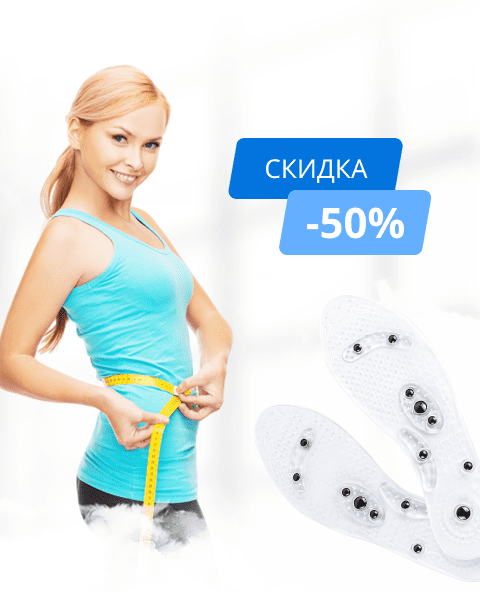
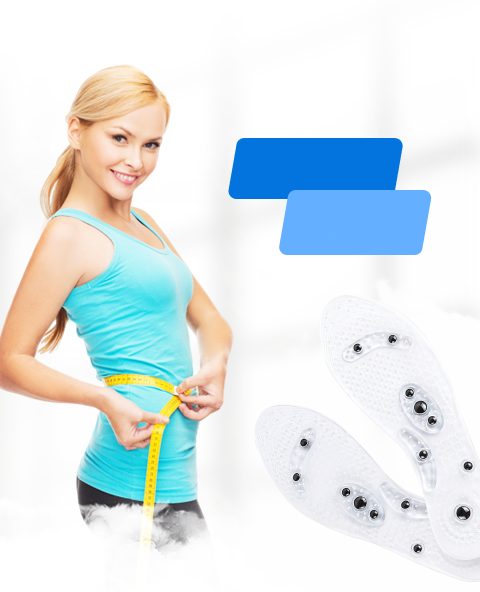
v

diff --git a/fitness_Insoles2/gr/1/styles/css/main.css b/fitness_Insoles2/gr/1/styles/css/main.css
@@ -1,2 +1,2 @@
-html{font-size:20.833333vw;overflow-x:hidden}@media (min-width: 481px){html{font-size:100px}}body{font-size:.20rem;max-width:480px;margin:auto;position:relative;line-height:1.4;font-weight:300;font-family:'Noto Sans', sans-serif;color:#063060;overflow-x:hidden;-webkit-box-shadow:0 0 2px 2px rgba(0,0,0,0.25);box-shadow:0 0 2px 2px rgba(0,0,0,0.25)}body input,body textarea{outline:none}body input:focus:required:invalid,body textarea:focus:required:invalid{border-color:red}body input:required:valid,body textarea:required:valid{border-color:green}.play{font-family:'Playfair Display', sans-serif}section{padding:.3rem 0}.img-wrap{display:-webkit-box;display:-ms-flexbox;display:flex;-webkit-box-align:center;-ms-flex-align:center;align-items:center;-webkit-box-pack:center;-ms-flex-pack:center;justify-content:center}.img-wrap img{width:100%}.img-wrap.pad{padding:.2rem 0}.img-wrap.mar{margin:.2rem 0}.content{padding:0 .13rem}.content p{line-height:1.5}.content p:last-child{margin-bottom:0}.bg-light{background-color:#c7ebf5}.no-pad{margin-left:-0.13rem;margin-right:-0.13rem;display:block;width:4.8rem}.heading{padding:.2rem 0}h2{text-align:left;font-size:0.36rem;font-weight:bold;margin:0 0 0.2rem 0;bottom:.5rem;line-height:1.3;text-transform:uppercase}h2 b{color:#2EE3F7}h2.right{text-align:right}h2.big{font-size:0.4rem}h2.black{color:#000}h2.vait{color:vait}h2 span{color:#0077C0}h2.upp{text-transform:uppercase}h2 b.prod{text-transform:uppercase;font-weight:bold}h2 .offer{text-transform:uppercase}.sub-title{font-style:italic;font-size:0.2rem;color:#323842}.t-center{text-align:center}.t-white{color:#fff}span.accent{color:#0077C0}h2+p{margin-top:0}.btn{display:-webkit-box;display:-ms-flexbox;display:flex;-webkit-box-orient:horizontal;-webkit-box-direction:normal;-ms-flex-direction:row;flex-direction:row;-webkit-box-pack:center;-ms-flex-pack:center;justify-content:center;-webkit-box-align:center;-ms-flex-align:center;align-items:center;-ms-flex-wrap:nowrap;flex-wrap:nowrap;border-radius:0px 0px 5px 5px;background-image:url(../../img/button.png);background-color:transparent;background-size:cover;color:#fff;text-transform:uppercase;font-weight:bold;text-decoration:none;font-size:0.25rem;border:none;height:1.32rem;width:4.4rem;margin:0 auto;position:relative;margin-top:0.1rem}.btn span{top:-0.09rem;position:relative}.border__top{width:4.8rem;position:absolute;top:-0.28rem;left:0;right:0}.border__bot{width:4.8rem;position:absolute;bottom:-0.28rem;left:0;right:0}@-webkit-keyframes btn{0%{-webkit-transform:scale(1);transform:scale(1)}50%{-webkit-transform:scale(1.06);transform:scale(1.06)}100%{-webkit-transform:scale(1);transform:scale(1)}}@keyframes btn{0%{-webkit-transform:scale(1);transform:scale(1)}50%{-webkit-transform:scale(1.06);transform:scale(1.06)}100%{-webkit-transform:scale(1);transform:scale(1)}}.pulse__btn{position:fixed;right:0.2rem;display:inline-block;bottom:0.2rem;z-index:12;-webkit-box-shadow:0 0 0 rgba(11,138,44,0.4);box-shadow:0 0 0 rgba(11,138,44,0.4);width:0.7rem;height:0.7rem;border-radius:50%;-webkit-animation:pulse 2s infinite;animation:pulse 2s infinite;-webkit-transition:all .9s ease;transition:all .9s ease}.pulse__btn.show{right:-100%}.pulse__btn img{width:100%}img{width:100%}input[type="number"]::-webkit-outer-spin-button,input[type="number"]::-webkit-inner-spin-button{-webkit-appearance:none;margin:0}input[type="number"]{-moz-appearance:textfield}input[type="number"]:hover,input[type="number"]:focus{-moz-appearance:number-input}input[type=number]::-webkit-inner-spin-button,input[type=number]::-webkit-outer-spin-button{-webkit-appearance:none;margin:0}form{-webkit-box-sizing:border-box;box-sizing:border-box;margin:auto;display:-webkit-box;display:-ms-flexbox;display:flex;-webkit-box-align:center;-ms-flex-align:center;align-items:center;-webkit-box-orient:vertical;-webkit-box-direction:normal;-ms-flex-direction:column;flex-direction:column;padding-bottom:0.4rem;margin-top:0.2rem}form .btn{margin-top:-0.2rem}input,textarea{height:.75rem;width:3.9rem;padding-left:0.3rem;-webkit-box-sizing:border-box;box-sizing:border-box;border-radius:4px;font-size:0.16rem;color:#000;border:none;margin-bottom:0.4rem;background:#CEEDFF;-webkit-box-shadow:inset 0px 4px 4px rgba(162,210,255,0.5);box-shadow:inset 0px 4px 4px rgba(162,210,255,0.5);border-radius:9px}input::-webkit-input-placeholder{font-size:0.22rem;font-family:inherit}input:-ms-input-placeholder{font-size:0.22rem;font-family:inherit}input::-ms-input-placeholder{font-size:0.22rem;font-family:inherit}input::placeholder{font-size:0.22rem;font-family:inherit}.policy_wrap{display:-webkit-box;display:-ms-flexbox;display:flex;-webkit-box-align:center;-ms-flex-align:center;align-items:center;-webkit-box-pack:center;-ms-flex-pack:center;justify-content:center;-webkit-box-orient:vertical;-webkit-box-direction:normal;-ms-flex-direction:column;flex-direction:column;min-height:1rem;background-color:#3b3c3d;font-size:0.16rem;color:#fff;text-align:center}.policy_wrap a{color:#7c7e86}@-webkit-keyframes pulse{0%{-webkit-box-shadow:0 0 0 rgba(11,138,44,0.4);box-shadow:0 0 0 rgba(11,138,44,0.4);transform:scale(1);-webkit-transform:scale(1);-moz-transform:scale(1);-ms-transform:scale(1);-o-transform:scale(1)}70%{-webkit-box-shadow:0 0 0 30px rgba(11,138,44,0);box-shadow:0 0 0 30px rgba(11,138,44,0);transform:scale(0.95);-webkit-transform:scale(0.95);-moz-transform:scale(0.95);-ms-transform:scale(0.95);-o-transform:scale(0.95)}100%{-webkit-box-shadow:0 0 0 0 rgba(11,138,44,0);box-shadow:0 0 0 0 rgba(11,138,44,0);-webkit-transform:scale(1);transform:scale(1)}}@keyframes pulse{0%{-webkit-box-shadow:0 0 0 rgba(11,138,44,0.4);box-shadow:0 0 0 rgba(11,138,44,0.4);transform:scale(1);-webkit-transform:scale(1);-moz-transform:scale(1);-ms-transform:scale(1);-o-transform:scale(1)}70%{-webkit-box-shadow:0 0 0 30px rgba(11,138,44,0);box-shadow:0 0 0 30px rgba(11,138,44,0);transform:scale(0.95);-webkit-transform:scale(0.95);-moz-transform:scale(0.95);-ms-transform:scale(0.95);-o-transform:scale(0.95)}100%{-webkit-box-shadow:0 0 0 0 rgba(11,138,44,0);box-shadow:0 0 0 0 rgba(11,138,44,0);-webkit-transform:scale(1);transform:scale(1)}}@-webkit-keyframes arrows{0%{-webkit-transform:translateX(0) translateY(-50%);transform:translateX(0) translateY(-50%)}50%{-webkit-transform:translateX(0.1rem) translateY(-50%);transform:translateX(0.1rem) translateY(-50%)}100%{-webkit-transform:translateX(0) translateY(-50%);transform:translateX(0) translateY(-50%)}}@keyframes arrows{0%{-webkit-transform:translateX(0) translateY(-50%);transform:translateX(0) translateY(-50%)}50%{-webkit-transform:translateX(0.1rem) translateY(-50%);transform:translateX(0.1rem) translateY(-50%)}100%{-webkit-transform:translateX(0) translateY(-50%);transform:translateX(0) translateY(-50%)}}@-webkit-keyframes arrows-reverse{0%{-webkit-transform:translateX(0) translateY(-50%);transform:translateX(0) translateY(-50%)}50%{-webkit-transform:translateX(-0.1rem) translateY(-50%);transform:translateX(-0.1rem) translateY(-50%)}100%{-webkit-transform:translateX(0) translateY(-50%);transform:translateX(0) translateY(-50%)}}@keyframes arrows-reverse{0%{-webkit-transform:translateX(0) translateY(-50%);transform:translateX(0) translateY(-50%)}50%{-webkit-transform:translateX(-0.1rem) translateY(-50%);transform:translateX(-0.1rem) translateY(-50%)}100%{-webkit-transform:translateX(0) translateY(-50%);transform:translateX(0) translateY(-50%)}}.reviews.owl-carousel .owl-item .ava{width:1.1rem;display:block;margin-right:0.4rem}.reviews__item{background:#ffffff;border-radius:10px;padding:0.39rem;-webkit-box-sizing:border-box;box-sizing:border-box}.reviews__header{display:-webkit-box;display:-ms-flexbox;display:flex;-webkit-box-orient:horizontal;-webkit-box-direction:normal;-ms-flex-direction:row;flex-direction:row;-webkit-box-pack:start;-ms-flex-pack:start;justify-content:flex-start;-webkit-box-align:stretch;-ms-flex-align:stretch;align-items:stretch;-ms-flex-wrap:nowrap;flex-wrap:nowrap}.reviews__header p{display:-webkit-box;display:-ms-flexbox;display:flex;-webkit-box-orient:vertical;-webkit-box-direction:normal;-ms-flex-direction:column;flex-direction:column;-webkit-box-pack:start;-ms-flex-pack:start;justify-content:flex-start;-webkit-box-align:stretch;-ms-flex-align:stretch;align-items:stretch;-ms-flex-wrap:nowrap;flex-wrap:nowrap}.reviews__name{font-weight:500}.reviews__name b{font-size:0.26rem}.owl-carousel .owl-dots{padding:0.2rem 0;display:-webkit-box;display:-ms-flexbox;display:flex;-webkit-box-pack:center;-ms-flex-pack:center;justify-content:center;-webkit-box-align:center;-ms-flex-align:center;align-items:center}.owl-carousel .owl-dots button{width:0.2rem;height:0.2rem;border-radius:50%;outline:none;background-color:#CEEDFF;-webkit-box-shadow:inset 0px 4px 4px rgba(162,210,255,0.5);box-shadow:inset 0px 4px 4px rgba(162,210,255,0.5);margin:0 3px}.owl-carousel .owl-dots button.active{background:-webkit-gradient(linear, left top, left bottom, from(#20aefa), color-stop(94.79%, #0078ff), color-stop(94.8%, #0078ff));background:linear-gradient(180deg, #20aefa 0%, #0078ff 94.79%, #0078ff 94.8%);-webkit-box-shadow:inset 0px 4px 4px rgba(162,210,255,0.5);box-shadow:inset 0px 4px 4px rgba(162,210,255,0.5)}.timer{padding:0.2rem 0;background:#f0f9ff;-webkit-box-shadow:inset 0 0.05rem 0.1rem #ddf1ff;box-shadow:inset 0 0.05rem 0.1rem #ddf1ff;border-radius:0.15rem;width:4.04rem;margin:0 auto;margin-bottom:0.2rem}.timer__wrapper,.timer__desc{display:-webkit-box;display:-ms-flexbox;display:flex;-webkit-box-orient:horizontal;-webkit-box-direction:normal;-ms-flex-direction:row;flex-direction:row;-ms-flex-pack:distribute;justify-content:space-around;-webkit-box-align:center;-ms-flex-align:center;align-items:center;-ms-flex-wrap:nowrap;flex-wrap:nowrap;font-size:0.43rem;max-width:3rem;font-weight:normal;margin:auto}.timer__wrapper>div,.timer__desc>div{width:1rem;text-align:center}.timer__title{text-align:center;margin:0 0 0.05rem;font-weight:normal}.timer__desc{font-size:0.16rem;font-weight:300;text-transform:uppercase}.timer__desc span{display:inline-block;width:1rem;text-align:center}.intro{background:#fff;padding-bottom:0.1rem}.intro__main{position:relative;background-image:url(../../img/intro.jpg);background-size:cover;height:8.26rem;padding-left:0.2rem;padding-top:0.65rem;-webkit-box-sizing:border-box;box-sizing:border-box}.intro__prod{width:2.5rem;height:2.5rem;background-image:url(../../img/intro_2.png);background-size:cover;-webkit-box-sizing:border-box;box-sizing:border-box;padding:0 .4rem;text-align:center;text-transform:uppercase;padding-bottom:0.5rem;display:-webkit-box;display:-ms-flexbox;display:flex;-webkit-box-orient:horizontal;-webkit-box-direction:normal;-ms-flex-direction:row;flex-direction:row;-webkit-box-pack:start;-ms-flex-pack:start;justify-content:flex-start;-webkit-box-align:end;-ms-flex-align:end;align-items:flex-end;-ms-flex-wrap:nowrap;flex-wrap:nowrap}.intro__trigger .sale{background-image:url(../../img/intro_1.svg);padding-left:0.3rem;-webkit-box-sizing:border-box;box-sizing:border-box;background-size:cover;width:2.48rem;height:0.47rem;background-repeat:no-repeat;color:#fff;display:-webkit-box;display:-ms-flexbox;display:flex;-webkit-box-orient:vertical;-webkit-box-direction:normal;-ms-flex-direction:column;flex-direction:column;-webkit-box-pack:center;-ms-flex-pack:center;justify-content:center;-webkit-box-align:stretch;-ms-flex-align:stretch;align-items:stretch;-ms-flex-wrap:nowrap;flex-wrap:nowrap;margin-bottom:0.1rem;font-size:0.16rem}.intro__trigger h2{font-size:0.46rem}.intro__trigger p{font-size:0.3rem;width:3.15rem}.intro__trigger img{width:2.54rem;margin-left:-0.2rem}.intro .price{background-size:cover;display:-webkit-box;display:-ms-flexbox;display:flex;-webkit-box-orient:horizontal;-webkit-box-direction:normal;-ms-flex-direction:row;flex-direction:row;-ms-flex-pack:distribute;justify-content:space-around;-webkit-box-align:center;-ms-flex-align:center;align-items:center;-ms-flex-wrap:nowrap;flex-wrap:nowrap;position:relative;margin-top:-0.1rem;text-align:center;line-height:0.32rem}.intro .price>div{width:50%}.intro .price>div:first-child{border-right:1px solid #bababa}.intro .price s{font-size:0.5rem}.intro .price b{font-size:0.5rem;color:#2ee3f7}.intro .price p{margin:0 0 0.13rem 0;font-size:0.2rem;line-height:0.27rem;color:#9d9d9d}.intro__box{display:-webkit-box;display:-ms-flexbox;display:flex;-webkit-box-orient:horizontal;-webkit-box-direction:normal;-ms-flex-direction:row;flex-direction:row;-webkit-box-pack:center;-ms-flex-pack:center;justify-content:center;-webkit-box-align:center;-ms-flex-align:center;align-items:center;-ms-flex-wrap:nowrap;flex-wrap:nowrap;font-weight:normal}.intro__box span{color:#9D9D9D}.intro__box p{margin:0 0 0 0.2rem;font-size:0.46rem;color:#2ee3f7}.intro__footer{display:-webkit-box;display:-ms-flexbox;display:flex;-webkit-box-orient:vertical;-webkit-box-direction:normal;-ms-flex-direction:column;flex-direction:column;-webkit-box-pack:start;-ms-flex-pack:start;justify-content:flex-start;-webkit-box-align:stretch;-ms-flex-align:stretch;align-items:stretch;-ms-flex-wrap:nowrap;flex-wrap:nowrap;text-align:left;margin-top:0.3rem;padding-bottom:0.2rem}.intro__item{display:-webkit-box;display:-ms-flexbox;display:flex;-webkit-box-orient:horizontal;-webkit-box-direction:normal;-ms-flex-direction:row;flex-direction:row;-webkit-box-pack:start;-ms-flex-pack:start;justify-content:flex-start;-webkit-box-align:stretch;-ms-flex-align:stretch;align-items:stretch;-ms-flex-wrap:nowrap;flex-wrap:nowrap;margin:0 0.15rem 0.3rem;-webkit-box-sizing:border-box;box-sizing:border-box;font-size:0.22rem}.intro__item img{width:1.1rem;-ms-flex-negative:0;flex-shrink:0;margin-right:0.36rem}.intro__item p{-ms-flex-item-align:center;-ms-grid-row-align:center;align-self:center;margin:0}.sect1{background-color:#ebf7ff;padding:0}.sect1__footer{position:relative;display:-webkit-box;display:-ms-flexbox;display:flex;-webkit-box-orient:vertical;-webkit-box-direction:normal;-ms-flex-direction:column;flex-direction:column;-webkit-box-pack:center;-ms-flex-pack:center;justify-content:center;-webkit-box-align:center;-ms-flex-align:center;align-items:center;-ms-flex-wrap:nowrap;flex-wrap:nowrap}.sect1__footer p{position:absolute;bottom:0.6rem;width:3.7rem}.sect1__main{padding-top:0.3rem}.sect1__header{background-color:#fff;width:0.54rem;height:0.54rem;padding:0.32rem;margin:0 auto;border-radius:100%;-webkit-transform:translateY(-50%);transform:translateY(-50%)}.sect1__header img{width:0.54rem}.sect2{position:relative;padding-top:2.2rem;padding-bottom:0}.sect2:before{content:"";background-image:url(../../img/sect1_after.jpg);background-size:cover;position:absolute;width:4.8rem;height:2.09rem;top:0}.sect2__grid{display:-ms-grid;display:grid;-ms-grid-columns:(1fr)[2];grid-template-columns:repeat(2, 1fr);text-align:center;grid-gap:0.5rem;padding:0 0.3rem;padding-top:0.35rem;font-size:0.22rem}.sect2__grid img{width:1.4rem}.sect2__img{margin-top:-0.3rem;margin-bottom:-0.7rem}.sect2__after{margin-top:-0.8rem}.sect3{background:#ebf7ff;border-radius:0px 0px 0px 137px}.sect3__main{padding-top:0.4rem}.sect3__item{position:relative;display:-webkit-box;display:-ms-flexbox;display:flex;-webkit-box-orient:vertical;-webkit-box-direction:normal;-ms-flex-direction:column;flex-direction:column;-webkit-box-pack:center;-ms-flex-pack:center;justify-content:center;-webkit-box-align:center;-ms-flex-align:center;align-items:center;-ms-flex-wrap:nowrap;flex-wrap:nowrap}.sect3__item p{position:absolute;bottom:0.7rem;width:3.62rem}.sect4{padding-top:0.64rem}.sect4 .text{font-size:0.22rem;padding-top:0.22rem}.sect4 h4{font-size:0.3rem;font-weight:normal}.sect4__item{position:relative;display:-webkit-box;display:-ms-flexbox;display:flex;-webkit-box-orient:vertical;-webkit-box-direction:normal;-ms-flex-direction:column;flex-direction:column;-webkit-box-pack:center;-ms-flex-pack:center;justify-content:center;-webkit-box-align:center;-ms-flex-align:center;align-items:center;-ms-flex-wrap:nowrap;flex-wrap:nowrap}.sect4__item p{color:#fff;position:absolute;bottom:0.7rem;width:3.62rem}.sect5{background-image:url(../../img/sect5.jpg);-webkit-box-sizing:border-box;box-sizing:border-box;background-size:cover;margin-top:-2.25rem;padding-top:3.5rem;background-repeat:no-repeat;padding-bottom:0}.sect5 h2{font-size:0.4rem;margin-bottom:0.65rem}.sect5__footer{margin-top:-0.9rem}.sect6__main{padding:0.4rem 0 0 0.25rem;-webkit-box-sizing:border-box;box-sizing:border-box}.sect6__item{display:-webkit-box;display:-ms-flexbox;display:flex;-webkit-box-orient:horizontal;-webkit-box-direction:normal;-ms-flex-direction:row;flex-direction:row;-webkit-box-pack:start;-ms-flex-pack:start;justify-content:flex-start;-webkit-box-align:center;-ms-flex-align:center;align-items:center;-ms-flex-wrap:nowrap;flex-wrap:nowrap;margin-bottom:0.39rem}.sect6__item img{width:27%;margin-right:0.3rem}.sect6__item p{-ms-flex-item-align:center;-ms-grid-row-align:center;align-self:center;width:2.73rem}.sect6 h2{text-align:center}.list{list-style:none;padding:0;margin:0;padding:0.2rem 0}.list__item{position:relative;padding-left:0.35rem}.list__item:not(:last-child){margin-bottom:0.15rem}.list__item:before{content:"";background-image:url(../../img/tick.svg);background-size:contain;display:block;width:0.24rem;height:0.24rem;position:absolute;left:0;top:0}
+html{font-size:20.833333vw;overflow-x:hidden}@media (min-width: 481px){html{font-size:100px}}body{font-size:.20rem;max-width:480px;margin:auto;position:relative;line-height:1.4;font-weight:300;font-family:'Noto Sans', sans-serif;color:#063060;overflow-x:hidden;-webkit-box-shadow:0 0 2px 2px rgba(0,0,0,0.25);box-shadow:0 0 2px 2px rgba(0,0,0,0.25)}body input,body textarea{outline:none}body input:focus:required:invalid,body textarea:focus:required:invalid{border-color:red}body input:required:valid,body textarea:required:valid{border-color:green}.play{font-family:'Playfair Display', sans-serif}section{padding:.3rem 0}.img-wrap{display:-webkit-box;display:-ms-flexbox;display:flex;-webkit-box-align:center;-ms-flex-align:center;align-items:center;-webkit-box-pack:center;-ms-flex-pack:center;justify-content:center}.img-wrap img{width:100%}.img-wrap.pad{padding:.2rem 0}.img-wrap.mar{margin:.2rem 0}.content{padding:0 .13rem}.content p{line-height:1.5}.content p:last-child{margin-bottom:0}.bg-light{background-color:#c7ebf5}.no-pad{margin-left:-0.13rem;margin-right:-0.13rem;display:block;width:4.8rem}.heading{padding:.2rem 0}h2{text-align:left;font-size:0.36rem;font-weight:bold;margin:0 0 0.2rem 0;bottom:.5rem;line-height:1.3;text-transform:uppercase}h2 b{color:#2EE3F7}h2.right{text-align:right}h2.big{font-size:0.4rem}h2.black{color:#000}h2.vait{color:vait}h2 span{color:#0077C0}h2.upp{text-transform:uppercase}h2 b.prod{text-transform:uppercase;font-weight:bold}h2 .offer{text-transform:uppercase}.sub-title{font-style:italic;font-size:0.2rem;color:#323842}.t-center{text-align:center}.t-white{color:#fff}span.accent{color:#0077C0}h2+p{margin-top:0}.btn{display:-webkit-box;display:-ms-flexbox;display:flex;-webkit-box-orient:horizontal;-webkit-box-direction:normal;-ms-flex-direction:row;flex-direction:row;-webkit-box-pack:center;-ms-flex-pack:center;justify-content:center;-webkit-box-align:center;-ms-flex-align:center;align-items:center;-ms-flex-wrap:nowrap;flex-wrap:nowrap;border-radius:0px 0px 5px 5px;background-image:url(../../img/button.png);background-color:transparent;background-size:cover;color:#fff;text-transform:uppercase;font-weight:bold;text-decoration:none;font-size:0.25rem;border:none;height:1.32rem;width:4.4rem;margin:0 auto;position:relative;margin-top:0.1rem}.btn span{top:-0.09rem;position:relative}.border__top{width:4.8rem;position:absolute;top:-0.28rem;left:0;right:0}.border__bot{width:4.8rem;position:absolute;bottom:-0.28rem;left:0;right:0}@-webkit-keyframes btn{0%{-webkit-transform:scale(1);transform:scale(1)}50%{-webkit-transform:scale(1.06);transform:scale(1.06)}100%{-webkit-transform:scale(1);transform:scale(1)}}@keyframes btn{0%{-webkit-transform:scale(1);transform:scale(1)}50%{-webkit-transform:scale(1.06);transform:scale(1.06)}100%{-webkit-transform:scale(1);transform:scale(1)}}.pulse__btn{position:fixed;right:0.2rem;display:inline-block;bottom:0.2rem;z-index:12;-webkit-box-shadow:0 0 0 rgba(11,138,44,0.4);box-shadow:0 0 0 rgba(11,138,44,0.4);width:0.7rem;height:0.7rem;border-radius:50%;-webkit-animation:pulse 2s infinite;animation:pulse 2s infinite;-webkit-transition:all .9s ease;transition:all .9s ease}.pulse__btn.show{right:-100%}.pulse__btn img{width:100%}img{width:100%}input[type="number"]::-webkit-outer-spin-button,input[type="number"]::-webkit-inner-spin-button{-webkit-appearance:none;margin:0}input[type="number"]{-moz-appearance:textfield}input[type="number"]:hover,input[type="number"]:focus{-moz-appearance:number-input}input[type=number]::-webkit-inner-spin-button,input[type=number]::-webkit-outer-spin-button{-webkit-appearance:none;margin:0}form{-webkit-box-sizing:border-box;box-sizing:border-box;margin:auto;display:-webkit-box;display:-ms-flexbox;display:flex;-webkit-box-align:center;-ms-flex-align:center;align-items:center;-webkit-box-orient:vertical;-webkit-box-direction:normal;-ms-flex-direction:column;flex-direction:column;padding-bottom:0.4rem;margin-top:0.2rem}form .btn{margin-top:-0.2rem}input,textarea{height:.75rem;width:3.9rem;padding-left:0.3rem;-webkit-box-sizing:border-box;box-sizing:border-box;border-radius:4px;font-size:0.16rem;color:#000;border:none;margin-bottom:0.4rem;background:#CEEDFF;-webkit-box-shadow:inset 0px 4px 4px rgba(162,210,255,0.5);box-shadow:inset 0px 4px 4px rgba(162,210,255,0.5);border-radius:9px}input::-webkit-input-placeholder{font-size:0.22rem;font-family:inherit}input:-ms-input-placeholder{font-size:0.22rem;font-family:inherit}input::-ms-input-placeholder{font-size:0.22rem;font-family:inherit}input::placeholder{font-size:0.22rem;font-family:inherit}.policy_wrap{display:-webkit-box;display:-ms-flexbox;display:flex;-webkit-box-align:center;-ms-flex-align:center;align-items:center;-webkit-box-pack:center;-ms-flex-pack:center;justify-content:center;-webkit-box-orient:vertical;-webkit-box-direction:normal;-ms-flex-direction:column;flex-direction:column;min-height:1rem;background-color:#3b3c3d;font-size:0.16rem;color:#fff;text-align:center}.policy_wrap a{color:#7c7e86}@-webkit-keyframes pulse{0%{-webkit-box-shadow:0 0 0 rgba(11,138,44,0.4);box-shadow:0 0 0 rgba(11,138,44,0.4);transform:scale(1);-webkit-transform:scale(1);-moz-transform:scale(1);-ms-transform:scale(1);-o-transform:scale(1)}70%{-webkit-box-shadow:0 0 0 30px rgba(11,138,44,0);box-shadow:0 0 0 30px rgba(11,138,44,0);transform:scale(0.95);-webkit-transform:scale(0.95);-moz-transform:scale(0.95);-ms-transform:scale(0.95);-o-transform:scale(0.95)}100%{-webkit-box-shadow:0 0 0 0 rgba(11,138,44,0);box-shadow:0 0 0 0 rgba(11,138,44,0);-webkit-transform:scale(1);transform:scale(1)}}@keyframes pulse{0%{-webkit-box-shadow:0 0 0 rgba(11,138,44,0.4);box-shadow:0 0 0 rgba(11,138,44,0.4);transform:scale(1);-webkit-transform:scale(1);-moz-transform:scale(1);-ms-transform:scale(1);-o-transform:scale(1)}70%{-webkit-box-shadow:0 0 0 30px rgba(11,138,44,0);box-shadow:0 0 0 30px rgba(11,138,44,0);transform:scale(0.95);-webkit-transform:scale(0.95);-moz-transform:scale(0.95);-ms-transform:scale(0.95);-o-transform:scale(0.95)}100%{-webkit-box-shadow:0 0 0 0 rgba(11,138,44,0);box-shadow:0 0 0 0 rgba(11,138,44,0);-webkit-transform:scale(1);transform:scale(1)}}@-webkit-keyframes arrows{0%{-webkit-transform:translateX(0) translateY(-50%);transform:translateX(0) translateY(-50%)}50%{-webkit-transform:translateX(0.1rem) translateY(-50%);transform:translateX(0.1rem) translateY(-50%)}100%{-webkit-transform:translateX(0) translateY(-50%);transform:translateX(0) translateY(-50%)}}@keyframes arrows{0%{-webkit-transform:translateX(0) translateY(-50%);transform:translateX(0) translateY(-50%)}50%{-webkit-transform:translateX(0.1rem) translateY(-50%);transform:translateX(0.1rem) translateY(-50%)}100%{-webkit-transform:translateX(0) translateY(-50%);transform:translateX(0) translateY(-50%)}}@-webkit-keyframes arrows-reverse{0%{-webkit-transform:translateX(0) translateY(-50%);transform:translateX(0) translateY(-50%)}50%{-webkit-transform:translateX(-0.1rem) translateY(-50%);transform:translateX(-0.1rem) translateY(-50%)}100%{-webkit-transform:translateX(0) translateY(-50%);transform:translateX(0) translateY(-50%)}}@keyframes arrows-reverse{0%{-webkit-transform:translateX(0) translateY(-50%);transform:translateX(0) translateY(-50%)}50%{-webkit-transform:translateX(-0.1rem) translateY(-50%);transform:translateX(-0.1rem) translateY(-50%)}100%{-webkit-transform:translateX(0) translateY(-50%);transform:translateX(0) translateY(-50%)}}.reviews.owl-carousel .owl-item .ava{width:1.1rem;display:block;margin-right:0.4rem}.reviews__item{background:#ffffff;border-radius:10px;padding:0.39rem;-webkit-box-sizing:border-box;box-sizing:border-box}.reviews__header{display:-webkit-box;display:-ms-flexbox;display:flex;-webkit-box-orient:horizontal;-webkit-box-direction:normal;-ms-flex-direction:row;flex-direction:row;-webkit-box-pack:start;-ms-flex-pack:start;justify-content:flex-start;-webkit-box-align:stretch;-ms-flex-align:stretch;align-items:stretch;-ms-flex-wrap:nowrap;flex-wrap:nowrap}.reviews__header p{display:-webkit-box;display:-ms-flexbox;display:flex;-webkit-box-orient:vertical;-webkit-box-direction:normal;-ms-flex-direction:column;flex-direction:column;-webkit-box-pack:start;-ms-flex-pack:start;justify-content:flex-start;-webkit-box-align:stretch;-ms-flex-align:stretch;align-items:stretch;-ms-flex-wrap:nowrap;flex-wrap:nowrap}.reviews__name{font-weight:500}.reviews__name b{font-size:0.26rem}.owl-carousel .owl-dots{padding:0.2rem 0;display:-webkit-box;display:-ms-flexbox;display:flex;-webkit-box-pack:center;-ms-flex-pack:center;justify-content:center;-webkit-box-align:center;-ms-flex-align:center;align-items:center}.owl-carousel .owl-dots button{width:0.2rem;height:0.2rem;border-radius:50%;outline:none;background-color:#CEEDFF;-webkit-box-shadow:inset 0px 4px 4px rgba(162,210,255,0.5);box-shadow:inset 0px 4px 4px rgba(162,210,255,0.5);margin:0 3px}.owl-carousel .owl-dots button.active{background:-webkit-gradient(linear, left top, left bottom, from(#20aefa), color-stop(94.79%, #0078ff), color-stop(94.8%, #0078ff));background:linear-gradient(180deg, #20aefa 0%, #0078ff 94.79%, #0078ff 94.8%);-webkit-box-shadow:inset 0px 4px 4px rgba(162,210,255,0.5);box-shadow:inset 0px 4px 4px rgba(162,210,255,0.5)}.timer{padding:0.2rem 0;background:#f0f9ff;-webkit-box-shadow:inset 0 0.05rem 0.1rem #ddf1ff;box-shadow:inset 0 0.05rem 0.1rem #ddf1ff;border-radius:0.15rem;width:4.04rem;margin:0 auto;margin-bottom:0.2rem}.timer__wrapper,.timer__desc{display:-webkit-box;display:-ms-flexbox;display:flex;-webkit-box-orient:horizontal;-webkit-box-direction:normal;-ms-flex-direction:row;flex-direction:row;-ms-flex-pack:distribute;justify-content:space-around;-webkit-box-align:center;-ms-flex-align:center;align-items:center;-ms-flex-wrap:nowrap;flex-wrap:nowrap;font-size:0.43rem;max-width:3rem;font-weight:normal;margin:auto}.timer__wrapper>div,.timer__desc>div{width:1rem;text-align:center}.timer__title{text-align:center;margin:0 0 0.05rem;font-weight:normal}.timer__desc{font-size:0.16rem;font-weight:300;text-transform:uppercase}.timer__desc span{display:inline-block;width:1rem;text-align:center}.intro{background:#fff;padding-bottom:0.1rem}.intro__main{position:relative;background-image:url(../../img/intro.jpg);background-size:cover;height:8.26rem;padding-left:0.2rem;padding-top:0.65rem;-webkit-box-sizing:border-box;box-sizing:border-box}.intro__prod{width:2.5rem;height:2.5rem;background-image:url(../../img/intro_2.png);background-size:cover;-webkit-box-sizing:border-box;box-sizing:border-box;padding:0 .4rem;text-align:center;padding-bottom:0.5rem;display:-webkit-box;display:-ms-flexbox;display:flex;-webkit-box-orient:horizontal;-webkit-box-direction:normal;-ms-flex-direction:row;flex-direction:row;-webkit-box-pack:start;-ms-flex-pack:start;justify-content:flex-start;-webkit-box-align:end;-ms-flex-align:end;align-items:flex-end;-ms-flex-wrap:nowrap;flex-wrap:nowrap}.intro__trigger .sale{background-image:url(../../img/intro_1.svg);padding-left:0.3rem;-webkit-box-sizing:border-box;box-sizing:border-box;background-size:cover;width:2.48rem;height:0.47rem;background-repeat:no-repeat;color:#fff;display:-webkit-box;display:-ms-flexbox;display:flex;-webkit-box-orient:vertical;-webkit-box-direction:normal;-ms-flex-direction:column;flex-direction:column;-webkit-box-pack:center;-ms-flex-pack:center;justify-content:center;-webkit-box-align:stretch;-ms-flex-align:stretch;align-items:stretch;-ms-flex-wrap:nowrap;flex-wrap:nowrap;margin-bottom:0.1rem;font-size:0.16rem}.intro__trigger h2{font-size:0.46rem}.intro__trigger p{font-size:0.3rem;width:3.15rem}.intro__trigger img{width:2.54rem;margin-left:-0.2rem}.intro .price{background-size:cover;display:-webkit-box;display:-ms-flexbox;display:flex;-webkit-box-orient:horizontal;-webkit-box-direction:normal;-ms-flex-direction:row;flex-direction:row;-ms-flex-pack:distribute;justify-content:space-around;-webkit-box-align:center;-ms-flex-align:center;align-items:center;-ms-flex-wrap:nowrap;flex-wrap:nowrap;position:relative;margin-top:-0.1rem;text-align:center;line-height:0.32rem}.intro .price>div{width:50%}.intro .price>div:first-child{border-right:1px solid #bababa}.intro .price s{font-size:0.5rem}.intro .price b{font-size:0.5rem;color:#2ee3f7}.intro .price p{margin:0 0 0.13rem 0;font-size:0.2rem;line-height:0.27rem;color:#9d9d9d}.intro__box{display:-webkit-box;display:-ms-flexbox;display:flex;-webkit-box-orient:horizontal;-webkit-box-direction:normal;-ms-flex-direction:row;flex-direction:row;-webkit-box-pack:center;-ms-flex-pack:center;justify-content:center;-webkit-box-align:center;-ms-flex-align:center;align-items:center;-ms-flex-wrap:nowrap;flex-wrap:nowrap;font-weight:normal}.intro__box span{color:#9D9D9D}.intro__box p{margin:0 0 0 0.2rem;font-size:0.46rem;color:#2ee3f7}.intro__footer{display:-webkit-box;display:-ms-flexbox;display:flex;-webkit-box-orient:vertical;-webkit-box-direction:normal;-ms-flex-direction:column;flex-direction:column;-webkit-box-pack:start;-ms-flex-pack:start;justify-content:flex-start;-webkit-box-align:stretch;-ms-flex-align:stretch;align-items:stretch;-ms-flex-wrap:nowrap;flex-wrap:nowrap;text-align:left;margin-top:0.3rem;padding-bottom:0.2rem}.intro__item{display:-webkit-box;display:-ms-flexbox;display:flex;-webkit-box-orient:horizontal;-webkit-box-direction:normal;-ms-flex-direction:row;flex-direction:row;-webkit-box-pack:start;-ms-flex-pack:start;justify-content:flex-start;-webkit-box-align:stretch;-ms-flex-align:stretch;align-items:stretch;-ms-flex-wrap:nowrap;flex-wrap:nowrap;margin:0 0.15rem 0.3rem;-webkit-box-sizing:border-box;box-sizing:border-box;font-size:0.22rem}.intro__item img{width:1.1rem;-ms-flex-negative:0;flex-shrink:0;margin-right:0.36rem}.intro__item p{-ms-flex-item-align:center;-ms-grid-row-align:center;align-self:center;margin:0}.sect1{background-color:#ebf7ff;padding:0}.sect1__footer{position:relative;display:-webkit-box;display:-ms-flexbox;display:flex;-webkit-box-orient:vertical;-webkit-box-direction:normal;-ms-flex-direction:column;flex-direction:column;-webkit-box-pack:center;-ms-flex-pack:center;justify-content:center;-webkit-box-align:center;-ms-flex-align:center;align-items:center;-ms-flex-wrap:nowrap;flex-wrap:nowrap}.sect1__footer p{position:absolute;bottom:0.6rem;width:3.7rem}.sect1__main{padding-top:0.3rem}.sect1__header{background-color:#fff;width:0.54rem;height:0.54rem;padding:0.32rem;margin:0 auto;border-radius:100%;-webkit-transform:translateY(-50%);transform:translateY(-50%)}.sect1__header img{width:0.54rem}.sect2{position:relative;padding-top:2.2rem;padding-bottom:0}.sect2:before{content:"";background-image:url(../../img/sect1_after.jpg);background-size:cover;position:absolute;width:4.8rem;height:2.09rem;top:0}.sect2__grid{display:-ms-grid;display:grid;-ms-grid-columns:(1fr)[2];grid-template-columns:repeat(2, 1fr);text-align:center;grid-gap:0.5rem;padding:0 0.3rem;padding-top:0.35rem;font-size:0.22rem}.sect2__grid img{width:1.4rem}.sect2__img{margin-top:-0.3rem;margin-bottom:-0.7rem}.sect2__after{margin-top:-0.8rem}.sect2__footer{width:4.8rem;height:5.92rem;background-image:url(../../img/sect2_footer.png);background-size:cover;-webkit-box-sizing:border-box;box-sizing:border-box;margin-top:-0.3rem;margin-bottom:-0.7rem;text-align:center;text-transform:uppercase;padding-bottom:0.5rem;position:relative;display:-webkit-box;display:-ms-flexbox;display:flex;-webkit-box-orient:horizontal;-webkit-box-direction:normal;-ms-flex-direction:row;flex-direction:row;-webkit-box-pack:start;-ms-flex-pack:start;justify-content:flex-start;-webkit-box-align:end;-ms-flex-align:end;align-items:flex-end;-ms-flex-wrap:nowrap;flex-wrap:nowrap}.sect2__footer b,.sect2__footer p{position:absolute;color:#fff}.sect2__footer p{top:1.23rem;left:2.64rem;font-size:0.26rem}.sect2__footer b{top:1.92rem;left:3.03rem;font-size:0.42rem}.sect3{background:#ebf7ff;border-radius:0px 0px 0px 137px}.sect3__main{padding-top:0.4rem}.sect3__item{position:relative;display:-webkit-box;display:-ms-flexbox;display:flex;-webkit-box-orient:vertical;-webkit-box-direction:normal;-ms-flex-direction:column;flex-direction:column;-webkit-box-pack:center;-ms-flex-pack:center;justify-content:center;-webkit-box-align:center;-ms-flex-align:center;align-items:center;-ms-flex-wrap:nowrap;flex-wrap:nowrap}.sect3__item p{position:absolute;bottom:0.7rem;width:3.62rem}.sect4{padding-top:0.64rem}.sect4 .text{font-size:0.22rem;padding-top:0.22rem}.sect4 h4{font-size:0.3rem;font-weight:normal}.sect4__item{position:relative;display:-webkit-box;display:-ms-flexbox;display:flex;-webkit-box-orient:vertical;-webkit-box-direction:normal;-ms-flex-direction:column;flex-direction:column;-webkit-box-pack:center;-ms-flex-pack:center;justify-content:center;-webkit-box-align:center;-ms-flex-align:center;align-items:center;-ms-flex-wrap:nowrap;flex-wrap:nowrap}.sect4__item p{color:#fff;position:absolute;bottom:0.7rem;width:3.62rem}.sect5{background-image:url(../../img/sect5.jpg);-webkit-box-sizing:border-box;box-sizing:border-box;background-size:cover;margin-top:-2.25rem;padding-top:3.5rem;background-repeat:no-repeat;padding-bottom:0}.sect5 h2{font-size:0.4rem;margin-bottom:0.65rem}.sect5__footer{margin-top:-0.9rem}.sect6__main{padding:0.4rem 0 0 0.25rem;-webkit-box-sizing:border-box;box-sizing:border-box}.sect6__item{display:-webkit-box;display:-ms-flexbox;display:flex;-webkit-box-orient:horizontal;-webkit-box-direction:normal;-ms-flex-direction:row;flex-direction:row;-webkit-box-pack:start;-ms-flex-pack:start;justify-content:flex-start;-webkit-box-align:center;-ms-flex-align:center;align-items:center;-ms-flex-wrap:nowrap;flex-wrap:nowrap;margin-bottom:0.39rem}.sect6__item img{width:27%;margin-right:0.3rem}.sect6__item p{-ms-flex-item-align:center;-ms-grid-row-align:center;align-self:center;width:2.73rem}.sect6 h2{text-align:center}.list{list-style:none;padding:0;margin:0;padding:0.2rem 0}.list__item{position:relative;padding-left:0.35rem}.list__item:not(:last-child){margin-bottom:0.15rem}.list__item:before{content:"";background-image:url(../../img/tick.svg);background-size:contain;display:block;width:0.24rem;height:0.24rem;position:absolute;left:0;top:0}
 /*# sourceMappingURL=main.css.map */

diff --git a/fitness_Insoles2/gr/1/styles/scss/main.scss b/fitness_Insoles2/gr/1/styles/scss/main.scss
@@ -29,7 +29,6 @@
     box-sizing: border-box;
     padding: 0 .4rem;
     text-align: center;
-    text-transform: uppercase;
     padding-bottom: 0.5rem;
     @include flex(row, $item: flex-end);
   }
@@ -182,6 +181,35 @@
   }
   &__after {
     margin-top: -0.8rem;
+  }
+  &__footer {
+    width: 4.8rem;
+    height: 5.92rem;
+    background-image: url(../../img/sect2_footer.png);
+    background-size: cover;
+    box-sizing: border-box;
+    margin-top: -0.3rem;
+    margin-bottom: -0.7rem;
+    text-align: center;
+    text-transform: uppercase;
+    padding-bottom: 0.5rem;
+    position: relative;
+    @include flex(row, $item: flex-end);
+    b,
+    p {
+      position: absolute;
+      color: #fff;
+    }
+    p {
+      top: 1.23rem;
+      left: 2.64rem;
+      font-size: 0.26rem;
+    }
+    b {
+      top: 1.92rem;
+      left: 3.03rem;
+      font-size: 0.42rem ;
+    }
   }
 }
 .sect3 {

diff --git a/fitness_Insoles2/gr/1/index.html b/fitness_Insoles2/gr/1/index.html
@@ -23,7 +23,7 @@
 				<h2><b> Fitness Insoles</b></h2>
 				<p> Λεπτό και γυμνασμένο σώμα<br><b> χωρίς εξαντλητικές προπονήσεις!</b></p>
 				<div class="intro__prod">
-					<span>Универсальные стельки</span>
+					<span>Παπούτσια γενικής χρήσης</span>
 				</div>
 			</div>
 		</div>
@@ -119,7 +119,10 @@
 					<p> Απώλεια βάρους μέχρι και  4 κιλά κάθε μήνα</p>
 				</div>
 			</div>
-			<img src="img/sect2_footer.png" alt class="no-pad sect2__img">
+			<div class="sect2__footer no-pad">
+				<p>ΕΚΠΤΩΣΗ</p>
+				<b>-50%</b>
+			</div>
 			<a href="#offer" class="btn"><span> ΠΑΡΑΓΓΕΙΛΤΕ ΜΕ ΕΚΠΤΩΣΗ</span></a>
 			<img src="img/sect2_footer_2.jpg" alt class="no-pad sect2__after">
 		</div>
